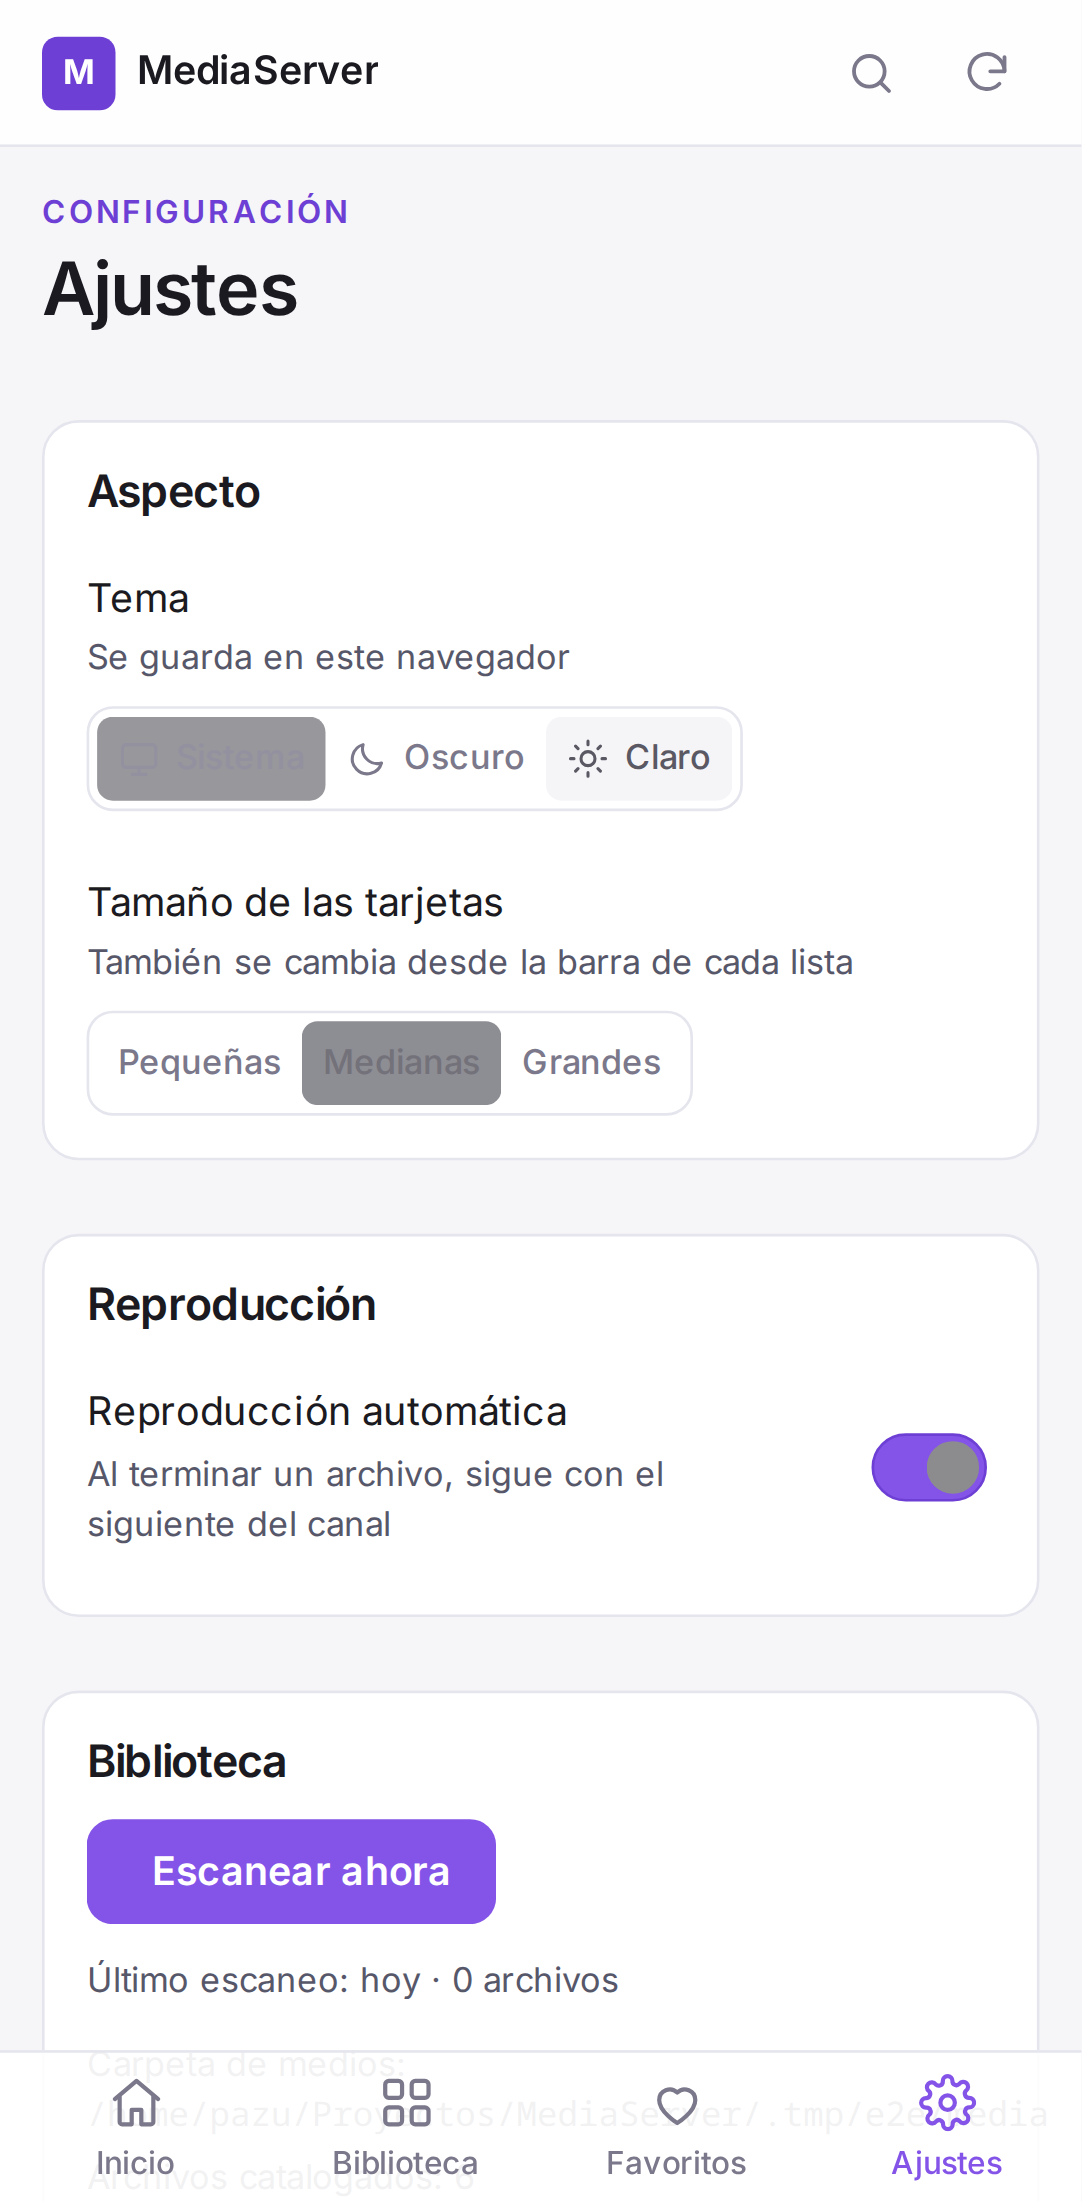
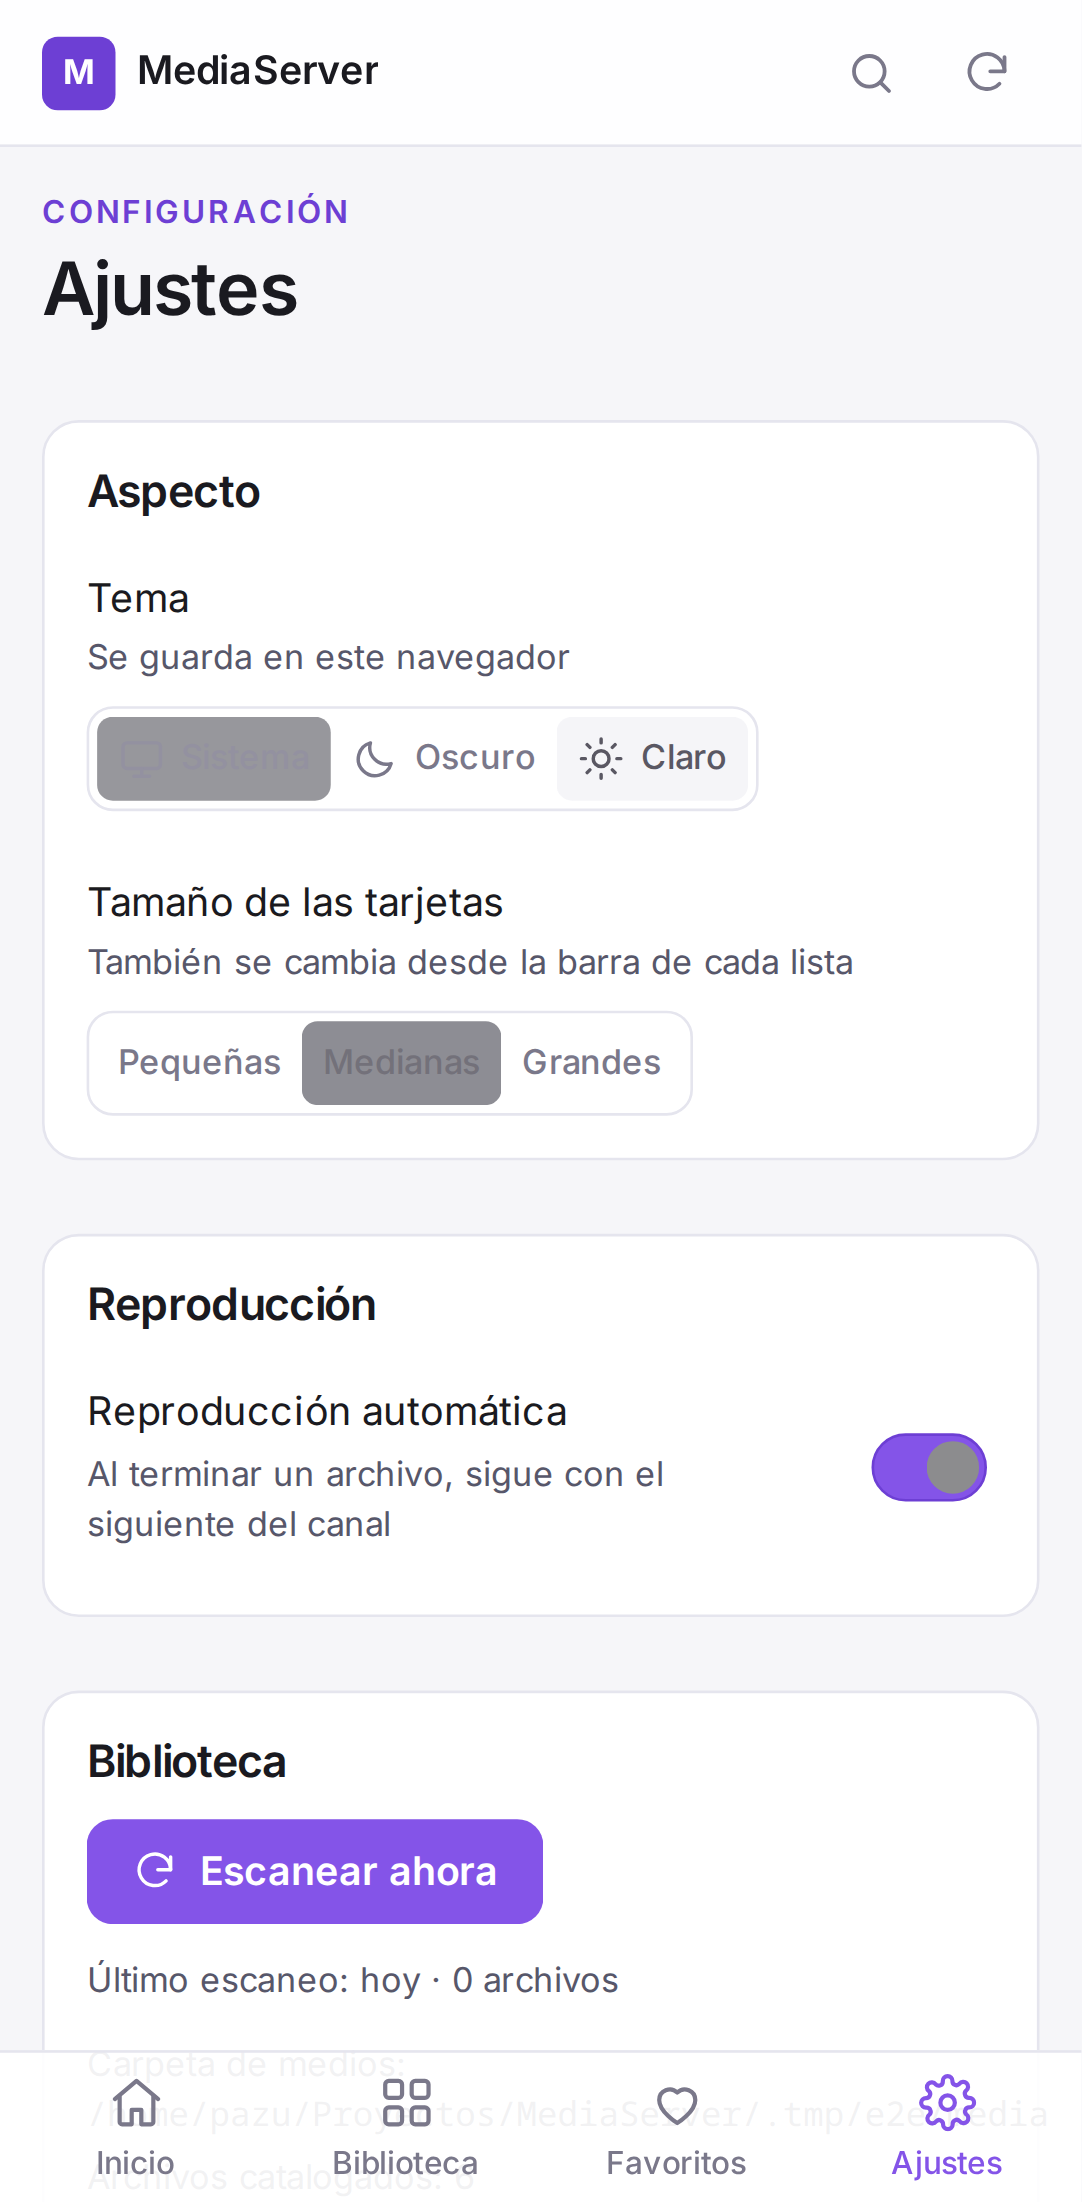
Arreglar los cuatro defectos reportados al probar en el navegador
1. Los iconos dentro de botones y chips no tenían tamaño. Un <svg> con viewBox
   y sin width/height no tiene tamaño intrínseco: según el contenedor salía de
   0 px (icono invisible: las flechas de los chips, el icono de Escanear, el de
   Reproducir todo) o de ~300 px, que es lo que hacía gigantes los botones de la
   zona de cuidado en Ajustes (524x211, 524x251, 524x301). El componente Icon ya
   no acepta quedarse sin medida y el CSS fija 18 px en esos contextos.

2. El foco de los campos dibujaba dos marcos: el borde de la caja y el contorno
   del input de dentro, así que el login parecía tener dos inputs. Ahora el
   input no dibuja contorno y la caja muestra un único anillo.

3. La X del reproductor flotaba sobre el vídeo con z-index 5 mientras los
   controles de la librería van en z-index 50: con los controles visibles, el
   clic caía en ellos y cerrar era una lotería. La X pasa a la barra inferior,
   fuera del área que gobierna la librería, y se oculta su botón de Google Cast
   (no hay integración y se solapaba con los controles propios).

4. En móvil, ese mismo solape con el botón de Google Cast hacía cosas raras.

Dos tests de regresión nuevos: uno comprueba que todo icono visible mide entre
1 y 48 px en las cinco pantallas principales, y otro que la X recibe el clic
tanto con los controles del vídeo ocultos como visibles.

Changed region(s): [[0.122, 0.8029, 0.5185, 0.8955], [0.2745, 0.3397, 0.488, 0.3706], [0.5185, 0.3397, 0.671, 0.3706]]

diff --git a/tests/e2e/accesibilidad.spec.ts b/tests/e2e/accesibilidad.spec.ts
@@ -39,13 +39,18 @@ test.describe('accesibilidad y semántica', () => {
     // esqueleto de arranque no hay nada enfocable y el foco se queda en `body`.
     await expect(page.getByRole('heading', { name: 'Biblioteca', level: 1 })).toBeVisible();
 
+    // El contorno puede estar en el propio elemento o en la caja del campo que
+    // lo envuelve (un input dentro de `.field` no debe dibujar dos marcos).
     const focused = async () =>
       page.evaluate(() => {
         const element = document.activeElement as HTMLElement | null;
         if (!element) return null;
-        const style = getComputedStyle(element);
+        const wrapper = element.closest('.field');
+        const owner = wrapper && getComputedStyle(wrapper).outlineStyle !== 'none' ? wrapper : element;
+        const style = getComputedStyle(owner);
         return {
           etiqueta: `${element.tagName.toLowerCase()}.${element.className}`,
+          quienDibuja: owner === element ? 'el propio elemento' : 'su caja .field',
           contorno: style.outlineStyle,
           grosor: Number.parseFloat(style.outlineWidth) || 0,
         };
@@ -60,6 +65,43 @@ test.describe('accesibilidad y semántica', () => {
     const segundo = await focused();
     expect(segundo?.contorno, `segundo foco: ${segundo?.etiqueta}`).not.toBe('none');
     expect(segundo?.grosor).toBeGreaterThanOrEqual(2);
+  });
+
+  // Regresión: los `<svg>` con `viewBox` y sin `width`/`height` no tienen
+  // tamaño intrínseco. Dentro de un botón o un chip salían de 0 px (icono
+  // invisible) o de ~300 px (botón de 300 px de alto). Los tests de nombre
+  // accesible no lo ven, porque el botón sigue funcionando sin su icono.
+  test('los iconos tienen un tamaño real, ni invisibles ni desproporcionados', async ({ page }) => {
+    // La sesión ya está iniciada por el `beforeEach`.
+    for (const route of ['/', '/biblioteca', '/c/Videos/Openings', '/favoritos', '/ajustes']) {
+      await page.goto(route);
+      await page.waitForLoadState('networkidle');
+
+      const malos = await page.evaluate(() => {
+        const esVisible = (element: Element | null): boolean => {
+          let node: Element | null = element;
+          while (node) {
+            if (getComputedStyle(node).display === 'none') return false;
+            node = node.parentElement;
+          }
+          return true;
+        };
+        return Array.from(document.querySelectorAll('button svg, a svg'))
+          .filter((svg) => esVisible(svg))
+          .map((svg) => {
+            const rect = svg.getBoundingClientRect();
+            return {
+              ancho: Math.round(rect.width),
+              alto: Math.round(rect.height),
+              padre: `${svg.parentElement?.tagName.toLowerCase()}.${String(svg.parentElement?.className).slice(0, 24)}`,
+            };
+          })
+          .filter((medida) => medida.ancho === 0 || medida.alto === 0 || medida.ancho > 48 || medida.alto > 48)
+          .map((medida) => `${medida.padre}: ${medida.ancho}x${medida.alto}`);
+      });
+
+      expect(malos, `iconos mal dimensionados en ${route}`).toEqual([]);
+    }
   });
 
   test('Escape cierra la hoja de confirmación y devuelve el foco', async ({ page }) => {

diff --git a/tests/e2e/reproductor.spec.ts b/tests/e2e/reproductor.spec.ts
@@ -15,6 +15,33 @@ test.describe('reproductor', () => {
     await expect(page.getByRole('heading', { name: 'Apertura 01', level: 1 })).toBeVisible();
   });
 
+  // Regresión: la X flotaba sobre el vídeo en z-index 5, mientras que los
+  // controles de la librería van en z-index 50. Según si estaban visibles o no,
+  // el clic caía en la X o en los controles: cerrar era una lotería.
+  test('el botón de cerrar recibe el clic con los controles ocultos y visibles', async ({ page }) => {
+    await goToChannel(page, 'Videos', 'Openings');
+    await page.getByRole('link', { name: 'Apertura 01' }).click();
+    await expect(page.locator('.player-dock[data-mode="full"]')).toBeVisible();
+
+    const cierraRecibeElClic = () =>
+      page.getByRole('button', { name: 'Cerrar el reproductor' }).evaluate((element) => {
+        const rect = element.getBoundingClientRect();
+        const hit = document.elementFromPoint(rect.x + rect.width / 2, rect.y + rect.height / 2);
+        return hit !== null && (element === hit || element.contains(hit));
+      });
+
+    // Recién abierto: los controles del vídeo están ocultos.
+    expect(await cierraRecibeElClic(), 'con los controles ocultos').toBe(true);
+
+    // Y con los controles ya visibles (ratón encima unos segundos).
+    await page.mouse.move(400, 300);
+    await page.waitForTimeout(3000);
+    expect(await cierraRecibeElClic(), 'con los controles visibles').toBe(true);
+
+    await page.getByRole('button', { name: 'Cerrar el reproductor' }).click();
+    await expect(page.locator('.miniplayer')).toBeVisible();
+  });
+
   test('al cerrar, la reproducción sigue con el mini reproductor', async ({ page }) => {
     await goToChannel(page, 'Videos', 'Openings');
     await page.getByRole('link', { name: 'Apertura 01' }).click();

diff --git a/src/styles/app.css b/src/styles/app.css
@@ -384,6 +384,14 @@
   color: var(--danger);
 }
 
+/* Las acciones de la zona de cuidado se leen como una lista: alineadas a la
+ * izquierda y con el alto de un botón normal, no estiradas a lo alto. */
+.danger-zone .btn {
+  justify-content: flex-start;
+  text-align: left;
+  padding-inline: var(--s-3);
+}
+
 .btn-block {
   width: 100%;
 }
@@ -451,6 +459,28 @@
 
 .field input::placeholder {
   color: var(--text-subtle);
+}
+
+/* Los iconos de botones y chips tienen tamaño fijo: sin esto, un `<svg>` con
+ * `viewBox` y sin medidas sale de 0 px o de 300 px según el contenedor. */
+.btn svg,
+.chip svg,
+.segmented button svg {
+  width: 18px;
+  height: 18px;
+}
+
+/* El contorno del foco va en la caja del campo, no en el input de dentro: con
+ * los dos, el campo parecía tener dos marcos (o dos inputs). El borde se vuelve
+ * transparente para que se vea UN solo anillo, no dos líneas moradas. */
+.field input:focus-visible {
+  outline: none;
+}
+
+.field:focus-within {
+  border-color: transparent;
+  outline: 2px solid var(--accent);
+  outline-offset: -1px;
 }
 
 .field-search {
@@ -1494,17 +1524,19 @@
   flex: 0 0 auto;
 }
 
+/* Cerrar el reproductor: un botón más de la barra (nada flotando sobre el vídeo). */
 .player-close {
-  position: absolute;
-  top: calc(var(--s-3) + var(--safe-top));
-  left: var(--s-3);
-  z-index: 5;
+  flex: 0 0 auto;
   width: 44px;
   height: 44px;
   border-radius: var(--r-full);
-  background: color-mix(in srgb, var(--bg) 60%, transparent);
-  backdrop-filter: blur(8px);
-  color: #fff;
+  color: var(--text-muted);
+}
+
+/* El botón de Google Cast no hace nada aquí (no hay integración) y se solapaba
+ * con los controles propios. */
+.vds-cast-button {
+  display: none;
 }
 
 .queue-list {

diff --git a/src/components/PlayerDock.tsx b/src/components/PlayerDock.tsx
@@ -56,12 +56,6 @@ export function PlayerDock() {
             </div>
           )}
 
-          {mode === 'full' && (
-            <button type="button" className="icon-btn player-close" onClick={closeFullPlayer} aria-label="Cerrar el reproductor">
-              <IconClose />
-            </button>
-          )}
-
           {playable ? (
             <MediaPlayer
               ref={playerRef}
@@ -94,6 +88,12 @@ export function PlayerDock() {
           <>
             <div className="dock-bar">
               <div className="player-bar-top">
+                {/* Cerrar vive en la barra, no flotando sobre el vídeo: los
+                    controles de la librería van en z-index 50 y tapaban el
+                    botón, así que el clic dependía de si estaban visibles. */}
+                <button type="button" className="icon-btn player-close" onClick={closeFullPlayer} aria-label="Cerrar el reproductor">
+                  <IconClose />
+                </button>
                 <div className="player-titles">
                   <h1 className="clamp-2">{current.title}</h1>
                   <p className="sub clamp-1">
@@ -199,7 +199,7 @@ export function PlayerDock() {
                 stop();
                 notify('Reproducción detenida');
               }}
-              aria-label="Detener y cerrar el reproductor"
+              aria-label="Detener la reproducción"
             >
               <IconClose />
             </button>

diff --git a/src/lib/icons.tsx b/src/lib/icons.tsx
@@ -2,7 +2,13 @@ import type { SVGProps } from 'react';
 
 type IconProps = SVGProps<SVGSVGElement> & { size?: number };
 
-function Icon({ size, children, ...props }: IconProps) {
+/**
+ * Todos los iconos llevan `width`/`height` explícitos. Sin ellos, un SVG con
+ * `viewBox` no tiene tamaño intrínseco y el navegador decide: dentro de un
+ * contenedor flex sale de 0 px (invisible) o de 300 px (gigante). Por eso el
+ * valor por defecto no es opcional.
+ */
+function Icon({ size = 20, children, ...props }: IconProps) {
   return (
     <svg
       viewBox="0 0 24 24"

diff --git a/src/styles/base.css b/src/styles/base.css
@@ -70,6 +70,11 @@ svg {
   max-width: 100%;
 }
 
+/* Un icono nunca se estira ni se encoge: su tamaño lo fija el componente. */
+svg {
+  flex: 0 0 auto;
+}
+
 button,
 input,
 select,
